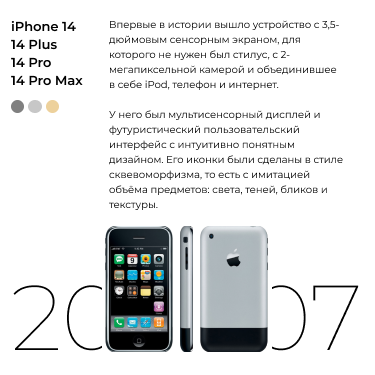
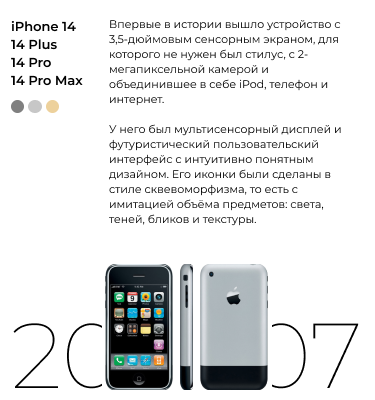
заменила моб фото

diff --git a/style.css b/style.css
@@ -56,6 +56,6 @@
   }
 
   .slider__item.active *{
-    max-height: 100vw;
+    max-height: 106.667vw;
   }
 }
